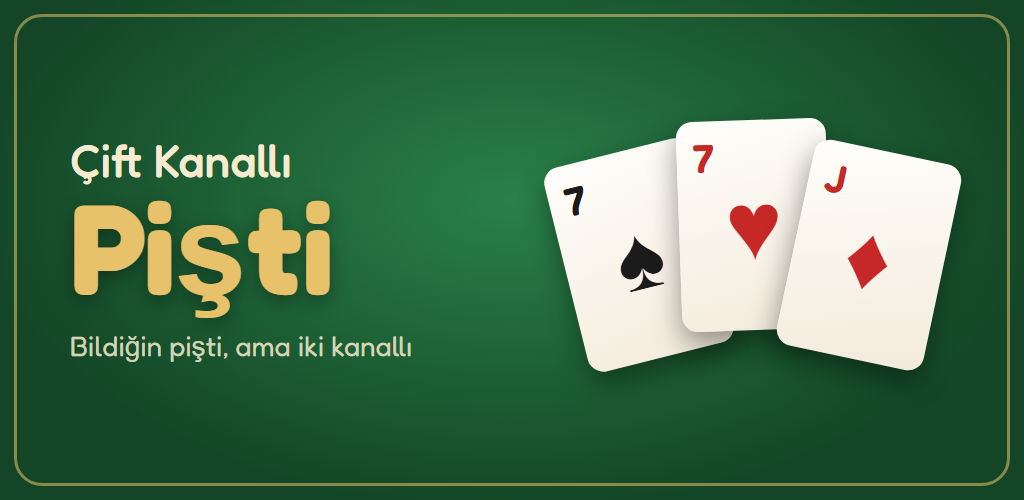
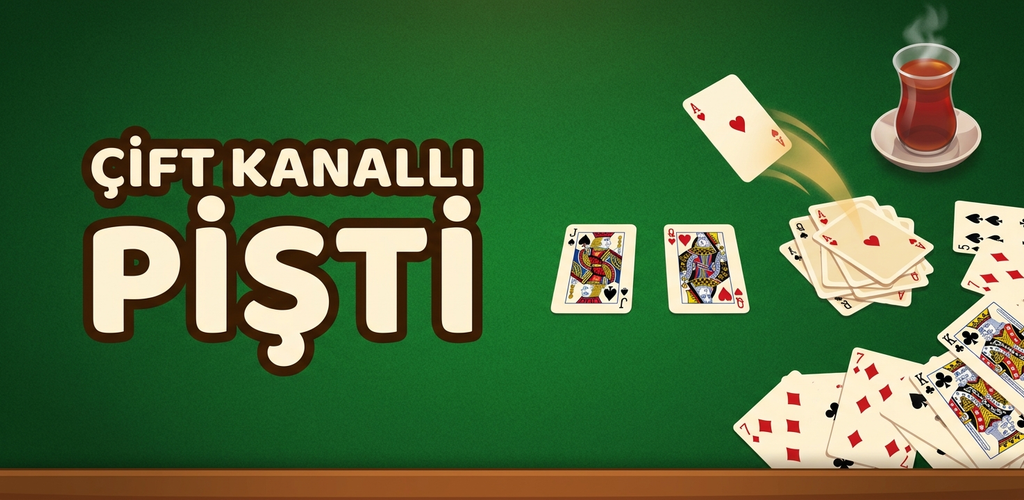
Mağaza simgesi ve kapak görseli yenilendi (Gemini)

diff --git a/magaza/magaza-yazilari.md b/magaza/magaza-yazilari.md
@@ -23,7 +23,7 @@ Kahvehane masasının pişti keyfi, yeni bir kuralla telefonunda.
 Puanlar normal pişti gibidir: pişti 10, vale ile vale piştisi 20, en çok kart 3, karo 10 3, sinek 2 2, her as ve vale 1 puan.
 ```
 
-- **Simge:** `simge-512.png` · **Kapak görseli:** `kapak-gorseli.png` (1024x500)
+- **Simge:** `simge-512.png` · **Kapak görseli:** `kapak-gorseli.png` (1024x500). İkisi de Google Gemini ile üretildi (13 Kasım 2026); büyük asılları `kaynak/`.
 - **Telefon ekran görüntüleri:** `ekran-goruntuleri/` (1080x1920, sırasıyla)
 - **Kategori:** Oyun → Kağıt. **Etiketler:** Kağıt, Eşleştirme, Gündelik
 - **İletişim:** nekankstudio@gmail.com · **Gizlilik:** https://nekank.com/privacy
